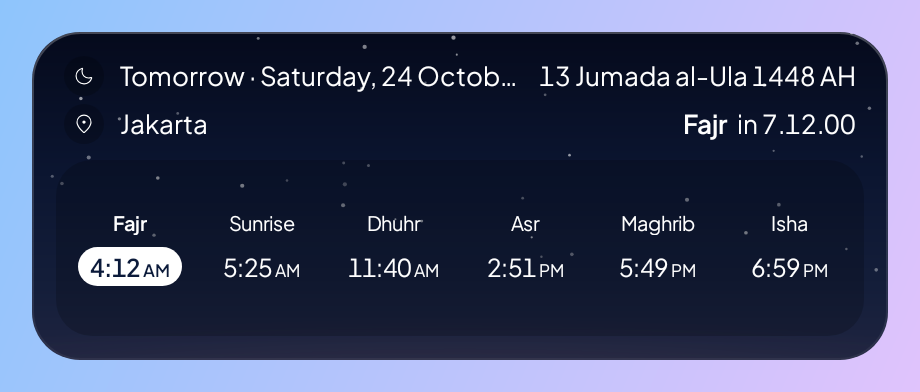
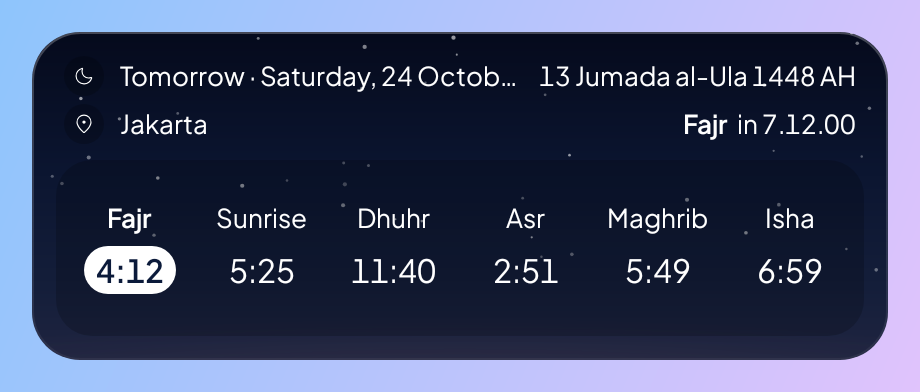
Widget: use a tall wide cell, keep row times large in 12-hour
On a Samsung A55 the 5×2 widget sat in a cell just under the 3-row
height, so the times floated in an empty panel, and six 12-hour times
had shrunk to fit their columns.

- Wide widgets (4-5 columns) switch to the 3-row layout from 215dp,
  with the next prayer large; tomorrow's fast chip shows only at the
  full 3-row height.
- In a row of times, "AM"/"PM" is left out when keeping it would shrink
  the digits; the prayer names say which half of the day it is.
- WidgetFitTest also covers 215 and 230dp heights and checks the times
  without a marker.

diff --git a/app/src/main/java/id/haho/muslimdaily/widget/PrayerWidgets.kt b/app/src/main/java/id/haho/muslimdaily/widget/PrayerWidgets.kt
@@ -153,7 +153,7 @@ internal fun PrayerWidgetContent(data: WidgetData) {
     Box(GlanceModifier.fillMaxSize().cornerRadius(Corner).openToday(context).semantics { contentDescription = t.description }) {
         SkyBackground(model.sky)
         val k = grid.scale
-        val l = Layout(model, t, data, k, grid.tight, size.width, TextFit(context))
+        val l = Layout(model, t, data, k, grid.tight, size.width, size.height, TextFit(context))
         when (grid.rows) {
             1 -> when (grid.columns) {
                 1 -> l.OneByOne()
@@ -200,6 +200,8 @@ private fun SkyBackground(look: SkyLook) {
 /**
  * The widget's layouts, one per size class, built from the same few parts. [k] scales the type;
  * each layout shrinks it further, by [fit], when its times, names or countdown would not fit [width].
+ * In a row of times, a 12-hour "AM"/"PM" is left out when keeping it would shrink the digits:
+ * each prayer's name already says which half of the day it is.
  */
 private class Layout(
     val model: WidgetModel,
@@ -208,6 +210,7 @@ private class Layout(
     val k: Float,
     val tight: Boolean,
     val width: Dp,
+    val height: Dp,
     val fit: TextFit,
 ) {
     val next = model.nextSlot
@@ -233,8 +236,14 @@ private class Layout(
     }
 
     /** Each prayer's name and time in its share of [width], as in [TimeColumns] (the time with room for the pill). */
-    fun columnLines(slots: List<SlotTime>, nameSp: Float, timeSp: Float, width: Dp, column: Dp): Array<FitLine> =
-        slots.flatMap { listOf(FitLine(width - column + 4.dp, t.name(it.slot) to nameSp), FitLine(width - column + 16.dp, *clockParts(t.time(it.time), timeSp))) }.toTypedArray()
+    fun columnLines(slots: List<SlotTime>, nameSp: Float, timeSp: Float, width: Dp, column: Dp, marker: Boolean = true): Array<FitLine> =
+        slots.flatMap { listOf(FitLine(width - column + 4.dp, t.name(it.slot) to nameSp), FitLine(width - column + 16.dp, *clockParts(columnTime(it, marker), timeSp))) }.toTypedArray()
+
+    fun columnTime(s: SlotTime, marker: Boolean): String = t.time(s.time).let { if (marker) it else clockDigits(it) }
+
+    /** Whether the times in a row keep their "AM"/"PM" without shrinking the digits. */
+    fun keepsMarker(slots: List<SlotTime>, nameSp: Float, timeSp: Float, width: Dp, column: Dp): Boolean =
+        fit.factor(width, *columnLines(slots, nameSp, timeSp, width, column)) >= 0.97f
 
     /** One line per prayer, name and time side by side, as in [TimeList]. */
     fun listLines(slots: List<SlotTime>, sp: Float, extra: Dp): Array<FitLine> =
@@ -293,7 +302,8 @@ private class Layout(
         val column = inner / slots.size
         // The header keeps the next prayer and its countdown whole; the date gives way.
         val s = k * fit.factor(inner, FitLine(16.dp + 4.dp + 8.dp + 40.dp, t.nextName to 12f * k, countdownSample(format) to 12f * k))
-        val c = k * fit.factor(inner, *columnLines(slots, 12f * k, 16f * k, inner, column))
+        val marker = keepsMarker(slots, 12f * k, 16f * k, inner, column)
+        val c = k * fit.factor(inner, *columnLines(slots, 12f * k, 16f * k, inner, column, marker))
         Column(GlanceModifier.fillMaxSize().padding(horizontal = 6.dp, vertical = 6.dp), verticalAlignment = Alignment.CenterVertically) {
             if (!tight) {
                 Row(GlanceModifier.fillMaxWidth().padding(horizontal = 8.dp), verticalAlignment = Alignment.CenterVertically) {
@@ -309,7 +319,7 @@ private class Layout(
                 }
                 Spacer(GlanceModifier.height(4.dp))
             }
-            TimeColumns(slots, 12f * c, 16f * c)
+            TimeColumns(slots, 12f * c, 16f * c, marker = marker)
         }
     }
 
@@ -405,7 +415,8 @@ private class Layout(
             if (big) FitLine(placeRow + 20.dp, t.now to 13f * k) else FitLine(placeRow + 4.dp, t.nextName to 13f * k, countdownSample(format) to 13f * k),
         )
         val b = k * fit.factor(inner, FitLine(8.dp + 10.dp + 16.dp, t.nextName to 16f * k, *clockParts(t.nextTime, nextSp * k), countdownSample(format) to 13f * k))
-        val c = k * fit.factor(inner - 8.dp, *columnLines(slots, 13f * k, 16f * k, inner - 8.dp, column))
+        val marker = keepsMarker(slots, 13f * k, 16f * k, inner - 8.dp, column)
+        val c = k * fit.factor(inner - 8.dp, *columnLines(slots, 13f * k, 16f * k, inner - 8.dp, column, marker))
         Column(GlanceModifier.fillMaxSize().padding(12.dp)) {
             Column(GlanceModifier.fillMaxWidth().padding(horizontal = 4.dp)) {
                 Row(GlanceModifier.fillMaxWidth(), verticalAlignment = Alignment.CenterVertically) {
@@ -437,11 +448,12 @@ private class Layout(
             Spacer(GlanceModifier.height(if (big) 6.dp else 8.dp))
             Panel(GlanceModifier.defaultWeight().fillMaxWidth()) {
                 Column(GlanceModifier.fillMaxSize(), verticalAlignment = Alignment.CenterVertically) {
-                    TimeColumns(slots, 13f * c, 16f * c, gap = if (big) 3.dp else 6.dp)
+                    TimeColumns(slots, 13f * c, 16f * c, gap = if (big) 3.dp else 6.dp, marker = marker)
                 }
             }
             val fast = t.fast
-            if (big && fast != null) {
+            // Only where the 3-row layout has its full height: in a shorter wide cell it would crowd the times.
+            if (big && fast != null && height >= 250.dp) {
                 Spacer(GlanceModifier.height(8.dp))
                 InfoChip(R.drawable.ic_calendar_month, fast, 12f * s, GlanceModifier.fillMaxWidth())
             }
@@ -518,14 +530,15 @@ private class Layout(
 
     /** The times side by side, name over time; the next one bold on a pill. */
     @Composable
-    fun TimeColumns(slots: List<SlotTime>, nameSp: Float, timeSp: Float, gap: Dp = 2.dp) {
+    fun TimeColumns(slots: List<SlotTime>, nameSp: Float, timeSp: Float, gap: Dp = 2.dp, marker: Boolean = true) {
         Row(GlanceModifier.fillMaxWidth(), verticalAlignment = Alignment.CenterVertically) {
             slots.forEach { s ->
                 val isNext = s.slot == next
                 Column(GlanceModifier.defaultWeight(), horizontalAlignment = Alignment.CenterHorizontally) {
                     Label(t.name(s.slot), nameSp, semibold = isNext)
                     Spacer(GlanceModifier.height(gap))
-                    if (isNext) Pill(clockText(t.time(s.time)), timeSp, padH = 6.dp, padV = 2.dp) else Box(GlanceModifier.padding(vertical = 2.dp)) { Label(clockText(t.time(s.time)), timeSp) }
+                    val time = clockText(columnTime(s, marker))
+                    if (isNext) Pill(time, timeSp, padH = 6.dp, padV = 2.dp) else Box(GlanceModifier.padding(vertical = 2.dp)) { Label(time, timeSp) }
                 }
             }
         }

diff --git a/app/src/test/java/id/haho/muslimdaily/widget/WidgetFitTest.kt b/app/src/test/java/id/haho/muslimdaily/widget/WidgetFitTest.kt
@@ -60,7 +60,7 @@ class WidgetFitTest {
 
     // The launcher grid's sizes, plus larger cells (tablets, Samsung's 5-column grid) where the type scales up.
     private val widths = listOf(76, 110, 164, 195, 252, 290, 340, 400, 428, 520)
-    private val heights = listOf(56, 76, 150, 164, 250, 252, 330)
+    private val heights = listOf(56, 76, 150, 164, 215, 230, 250, 252, 330)
     private val times = listOf(4 to 45, 8 to 30, 11 to 35, 17 to 30, 19 to 5, 21 to 0, 23 to 50)
     private val indonesian = Locale.forLanguageTag("id-ID")
 
@@ -93,7 +93,7 @@ class WidgetFitTest {
         val model = data.model!!
         val text = WidgetText(context, model, data.time)
         // What must always show in full: the times, the prayer names and the countdown.
-        val whole = (model.slots.map { text.time(it.time) } + model.slots.map { text.name(it.slot) }).toSet()
+        val whole = (model.slots.map { text.time(it.time) } + model.slots.map { clockDigits(text.time(it.time)) } + model.slots.map { text.name(it.slot) }).toSet()
 
         val views = Fake(data).compose(context, size = case.size)
         val density = context.resources.displayMetrics.density

diff --git a/app/src/main/java/id/haho/muslimdaily/widget/WidgetCommon.kt b/app/src/main/java/id/haho/muslimdaily/widget/WidgetCommon.kt
@@ -155,6 +155,9 @@ fun clockText(time: String): CharSequence {
     return SpannableString(time).apply { setSpan(RelativeSizeSpan(MeridiemScale), m.range.first, time.length, Spannable.SPAN_EXCLUSIVE_EXCLUSIVE) }
 }
 
+/** A clock time without its 12-hour "AM"/"PM", for a row where the prayer names say it. */
+fun clockDigits(time: String): String = Meridiem.replace(time, "")
+
 /** [clockText]'s parts at their sizes, for [TextFit]. */
 fun clockParts(time: String, sp: Float): Array<Pair<String, Float>> {
     val m = Meridiem.find(time) ?: return arrayOf(time to sp)

diff --git a/app/src/main/java/id/haho/muslimdaily/widget/WidgetModel.kt b/app/src/main/java/id/haho/muslimdaily/widget/WidgetModel.kt
@@ -117,7 +117,9 @@ data class WidgetGrid(val columns: Int, val rows: Int, val tight: Boolean, val s
             }
             val rows = when {
                 h < 150f -> 1
-                h < 250f -> 2
+                // Wide widgets fill a tall 2-row cell (Samsung's grid) with the next prayer large
+                // instead of an empty panel around the times.
+                h < (if (columns >= 4) 215f else 250f) -> 2
                 else -> 3
             }
             // Bigger widgets (tablets, large launchers) get bigger type instead of empty space.
